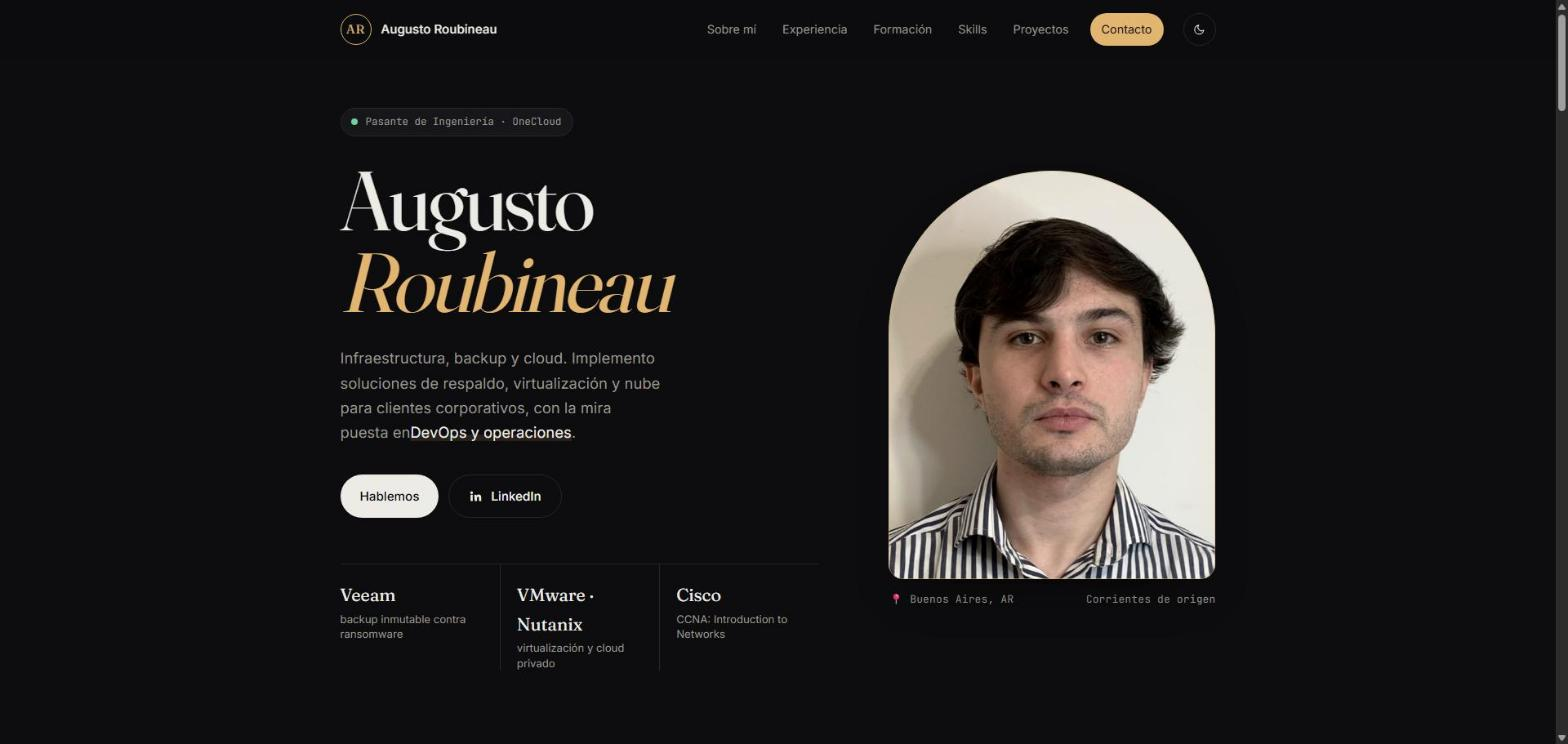
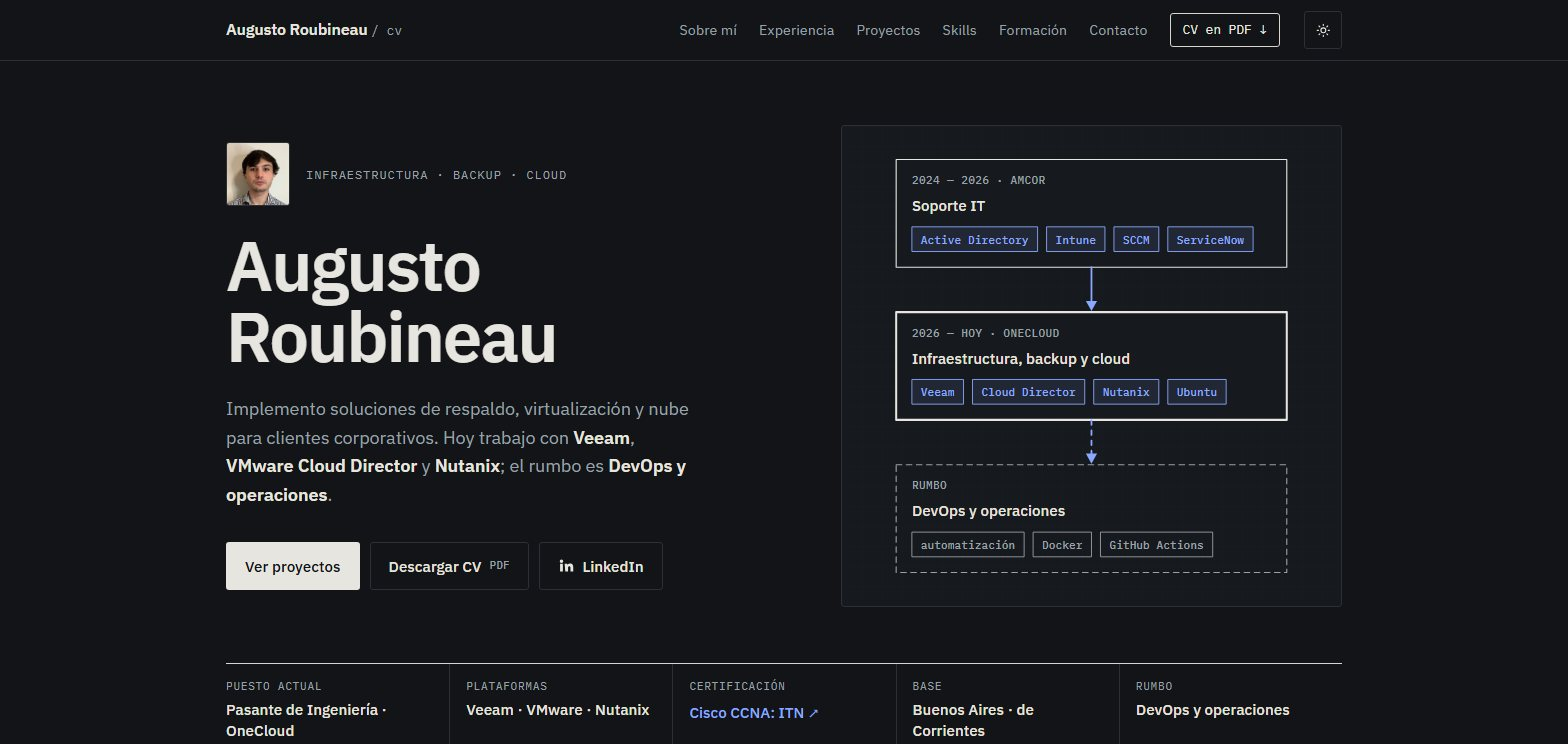
Captura nueva de este sitio y diagrama sin epígrafe

diff --git a/src/styles/global.css b/src/styles/global.css
@@ -194,7 +194,7 @@ main:focus { outline: none; }
 /* Diagrama sobre papel cuadriculado */
 .schema {
   margin: 0;
-  padding: 20px 20px 16px;
+  padding: 20px;
   border: 1px solid var(--line);
   border-radius: var(--radius);
   background:
@@ -203,7 +203,6 @@ main:focus { outline: none; }
     var(--surface);
 }
 .schema__svg { display: block; width: 100%; height: auto; max-height: 440px; stroke: none; }
-.schema figcaption { margin-top: 12px; color: var(--muted); font-size: .72rem; line-height: 1.5; }
 
 .s-box { fill: var(--surface); stroke: var(--text); stroke-width: 1; }
 .s-box--key { stroke-width: 1.8; }
@@ -446,7 +445,7 @@ main:focus { outline: none; }
   body { font-size: 16px; }
   .container { padding: 0 16px; }
   .hero__title { font-size: 2.5rem; }
-  .schema { padding: 12px 12px 10px; }
+  .schema { padding: 12px; }
   .spec { grid-template-columns: 1fr 1fr; }
   .spec > div, .spec > div:nth-child(4) { padding: 12px 12px 12px 0; border-left: 0; border-top: 1px solid var(--line); }
   .spec > div:nth-child(-n + 2) { border-top: 0; }
